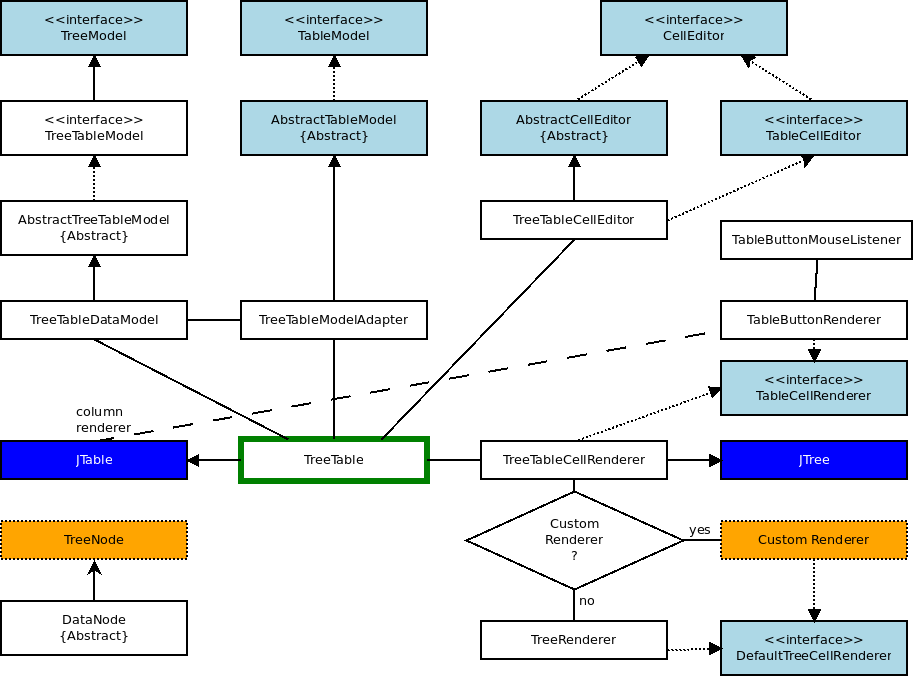
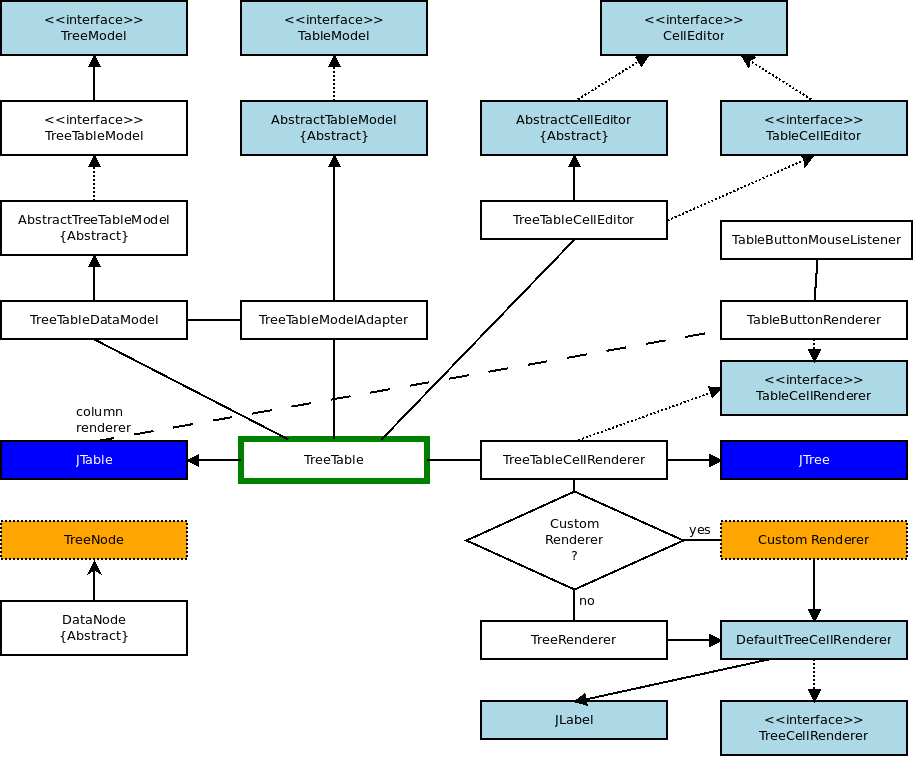
Removed context menu, updated documentation

diff --git a/doc/de/chapters/gui/debugger/3-var.tex b/doc/de/chapters/gui/debugger/3-var.tex
@@ -55,12 +55,15 @@ Diese Form der Variablendarstellung wurde erstmals im Dokument Ausführungsumgeb
 
 \subsection{Darstellungsschema}
 
-Die Darstellung der Variablen in Form einer Baumstruktur hat den Vorteil, dass alle Variablen in einem Feld untergrbracht sind und die Gültigkeitsbereiche der Variablen sofort ersichtlich sind.
-Alle Elemente befinden sich in einem Ordner, der den Namen der Datei trägt. Dadurch wird symbolisiert, dass die Variablen ein Teil des Programmes sind. Dem Programm selbst untergeordnet sind globale Variablen und Funktionen. Lokale Variablen sind Funktionen untergeordnet, Variablen in Strukturen sind der Struktur untergeordnet.
+Die Darstellung der Variablen in Form einer Baumstruktur hat den Vorteil, dass alle Variablen in einem Feld untergebracht sind und die Gültigkeitsbereiche der Variablen sofort ersichtlich sind.
+
+Die TreeTable besitzt drei Spalten: In der ersten befindet sich der Baum mit den Namen der Variablen. in der zweiten Spalte wird der Datentyp der Variable und in der dritten ihr Wert gezeigt.
+
+Alle Elemente befinden sich in einem Ordner, der den Namen der Datei trägt. Dadurch wird symbolisiert, dass die Variablen ein Teil des Programms sind. Dem Programm selbst untergeordnet sind globale Variablen und Funktionen. Lokale Variablen sind Funktionen untergeordnet, Variablen in Strukturen sind der Struktur untergeordnet.
 Zusätzlich werden folgende Elemente in der Tabelle farbig markiert:
 \begin{itemize}
 \item Funktionen sind hellblau hinterlegt. Sie sollen dadurch optisch von Datenstrukturen und Variablen unterscheidbar sein.
-\item Die Variablen, die zuletzt geändert wurden, sind gelb hinterlegt. Grundsätzlich kann pro Schritt des Debuggers nur eine Variable geändert werden. Werden aber einige Schritte übersprungen, zum Beispiel mit dem Schlüsselwort \glqq library\grqq, so werden mehrere Variablen in einem Debuggerschritt geändert.
+\item Die Variablen, die zuletzt geändert wurden, sind gelb hinterlegt. Grundsätzlich kann pro Schritt des Debuggers nur eine Variable geändert werden. Werden aber einige Schritte übersprungen, zum Beispiel mit dem Schlüsselwort \glqq{}library\grqq{}, so werden mehrere Variablen in einem Debuggerschritt geändert.
 % TODO refer to library
 \item Variablen, die noch nicht initialisiert wurden, sind grau hinterlegt.
 % TODO refer to undef variables
@@ -72,9 +75,6 @@ Zusätzlich werden folgende Elemente in der Tabelle farbig markiert:
 \caption{Beispiel für farbige Hervorhebung von Variablen}
 \label{fig:deb-tt-example}
 \end{figure}
-%TODO erklären, wie Farben funktionieren???
-
-Bei Rechtsklick auf eine Variable im Baum wird ein Kontextmenü geöffnet. Mit der Option \glqq{}Gehe zur Deklaration\grqq{} kann der Benutzer zur Deklaration der Variable im Sourcecode springen. Die entsprechende Zeile wird markiert. Für Funktionen gibt es außerdem den Punkt \glqq{}Gehe zum Aufruf\grqq{}, der die Zeile markiert, in der diese Funktion aufgerufen wurde.
 
 %    ---------------------------------------------------------------------
 %        Grundlegende Komponenten
@@ -82,7 +82,7 @@ Bei Rechtsklick auf eine Variable im Baum wird ein Kontextmenü geöffnet. Mit d
 
 \subsection{Grundlegende Komponenten}
 Die Variablen werden in einer Tabelle mit Baumstruktur, deshalb auch ,,TreeTable'' genannt, angezeigt. Die TreeTable ist eine Kombination aus einem JTree und einer JTable.
-Im Folgenden werden diese Komponenten beschrieben und der Aufbau der TreeTable erläutert:
+Im Folgenden werden diese Komponenten beschrieben und der Aufbau der TreeTable erläutert.
 
 \subsubsection*{JTree - Baum}
 
@@ -258,15 +258,88 @@ public Component getTableCellEditorComponent(JTable table, Object value, boolean
 \subsubsection*{TableCellRenderer.java}
 In diesem Interface sind alle Methoden definiert, die zum Rendern von Zellen einer JTable benötigt werden\footnote{https://docs.oracle.com/javase/7/docs/api/javax/swing/table/TableCellRenderer.html}.
 
+%TODO TODO TODO missing: TableButtonMouseListener, (swing)
+\subsubsection*{TableButtonRenderer.java}
+Diese Klasse sorgt dafür, dass die Zellen der Tabelle die richtige Hintergrundfarbe erhalten und dass AWT- und Swing-Elemente in der Tabelle richtig dargestellt werden. Um Elemente der grafischen Benutzeroberfläche in einer Tabelle zu rendern, muss die Methode \textbf{getTableCellRendererComponent(...)} für die jeweilige Zelle das beinhaltete Element zurückgeben.
+\begin{lstlisting}[language=JAVA]
+public Component getTableCellRendererComponent(JTable table, Object value, boolean isSelected, boolean hasFocus, int row, int column) {
+	Component c = (Component)defaultRenderer.getTableCellRendererComponent(table, value, isSelected, hasFocus, row, column);
+	
+	// AWT- oder Swing-Komponente verwenden
+	if(value instanceof Component)
+		return (Component)value;
+	
+	// Weitere Anpassungen
+	else if( ... )
+		...
+	
+	return c;
+}
+\end{lstlisting}
+
+\subsubsection*{TreeTableButtonMouseListener.java}
+Diese Klasse implementiert das Interface \textbf{MouseListener} und ist Event Listener der gesamten TreeTable. Dieser Listener muss allerdings manuell zur TreeTable hinzugefügt werden.
+\begin{lstlisting}[language=JAVA]
+treeTable.addMouseListener(new TableButtonMouseListener(main, treeTable));
+\end{lstlisting}
+
+Der Listener \textbf{TreeTableButtonMouseListener} sorgt dafür dass, falls ein Button in der Tabelle angeklickt wird, der entstandene Event an den Button weitergeleitet wird, sodass der Button seinen eigenen EventListener ausführen kann.
+\begin{lstlisting}[language=JAVA]
+public void mouseClicked(MouseEvent e) {
+	// Leitet den Event an den angeklickten Button weiter
+	forwardEventToButton(e, this.treeTable.getTable().rowAtPoint(e.getPoint()), this.treeTable.getTable().columnAtPoint(e.getPoint()));
+}
+\end{lstlisting}
+
 \subsubsection*{TreeTableCellRenderer.java}
 Diese Klasse erbt von JTree und wird verwendet, um einen Baum in die erste Spalte der Treetable, also die Spalte mit de Baum - zu rendern. Außerdem ist diese Klasse dafür verantwortlich, dass die Zeilen der Tabelle und des Baumes die selbe Höhe haben und dass die Zellen die richtige Farbe erhalten.
 %TODO refer to table line colors
 
+An den JTree selbst kann außerdem noch ein eigens erstellter Renderer übergeben werden, um beispielsweise eigene Symbole für jeden Knoten im Baum anzuzeigen. Dieser Renderer muss das Interface \textbf{DefaultTreeCellRenderer} implementieren. Ist ein solcher Renderer nicht vorhanden, wird die standardmäßig \textbf{TreeRenderer} verwendet.
 
-%TODO TODO TODO continue here
-%TODO TODO TODO missing: TreeRenderer, TableButtonMouseListener, (swing)DefaultTreeCellRenderer
-\subsubsection*{TableButtonRenderer.java}
-Diese Klasse wird als Renderer für die zweite und dritte Spalte der TreeTable verwendet. Sie erlaubt das Verwenden von Swing-Komponenten wie etwa JButtons als Zellendaten und sorgt dafür, dass die Zellen die korrekte Hintergrundfarbe haben.
+\subsubsection*{JLabel.java}
+Ein JLabel\footnote{http://docs.oracle.com/javase/7/docs/api/javax/swing/JLabel.html} ist ein einfaches Swing-Element, das einen Text und/oder ein Bild anzeigen kann. Für den Text in der Zelle einer Tabelle oder dem Knoten eines Baumes werden meistens JLabels verwendet (außer die Zelle soll editierbar sein --- dann wird ein JTextField\footnote{http://docs.oracle.com/javase/7/docs/api/javax/swing/JTextField.html} verwendet). JLabels reagieren nicht auf Events, wie etwa Mausklicks.
+
+\subsubsection*{TreeCellRenderer.java}
+Diese Interface definiert Basismethoden für ein Objekt, das den Knoten eines JTree rendern kann\footnote{http://docs.oracle.com/javase/7/docs/api/javax/swing/tree/TreeCellRenderer.html}.
+
+\subsubsection*{DefaultTreeCellRenderer.java}
+Diese Klasse enthält Implementierungen zum Rendern von Knoten eines JTree\footnote{http://docs.oracle.com/javase/7/docs/api/javax/swing/tree/DefaultTreeCellRenderer.html}.
+
+\subsubsection*{TreeRenderer.java}
+Dieser Renderer wird für den JTree der TreeTable verwendet, wenn kein anderer Renderer vorhanden ist. Die Klasse TreeRenderer entfernt alle Hintergrundfarben des JTree, damit die Farbmarkierungen in den Zeilen der Tabelle durchgängig sichtbar sind. Das muss auch bei allen eigenen JTree-Renderern für die TreeTable berücksichtigt werden. In einen neuen Renderer müssen folgende Methoden implementiert werden:
+\begin{lstlisting}[language=JAVA]
+@Override
+public Color getBackgroundNonSelectionColor() {
+    return null;
+}
+
+@Override
+public Color getBackgroundSelectionColor() {
+    return null;
+}
+
+@Override
+public Color getBackground() {
+    return null;
+}
+\end{lstlisting}
+
+Ohne diese Methoden zeichnet der JTree die Texte (JLabel) seiner Knoten nicht mit transparentem Hintergrund.
+
+\begin{figure}[h!]
+\centering
+	\begin{minipage}{0.45\textwidth}
+		\centering
+		\includegraphics[width=1.0\textwidth]{./media/images/gui/var/tt-norender.png}
+		\caption{TreeTable ohne Renderer für den JTree}\label{fig:deb-tt-render-no}
+	\end{minipage}\hfill
+	\begin{minipage}{0.48\textwidth}
+		\centering
+		\includegraphics[width=1.0\textwidth]{./media/images/gui/var/tt-render.png}
+		\caption{TreeTable mit Renderer für den JTree}\label{fig:deb-tt-render-no}
+	\end{minipage}
+\end{figure}
 
 %    ---------------------------------------------------------------------
 %        Spezielle Implementierung
@@ -283,11 +356,12 @@ TreeTableView hat folgende Methoden:
 \item \textbf{update} Aktualisiert das Datenmodell der TreeTable im Debugmodus und zeigt die Variablen im Speicher des Interpreters an.
 \item \textbf{highlightVariable} Mit dieser Methode wird die Addresse einer zuletzt geänderten Variable an die TreeTable übergeben. Diese Variable wird in der Tabelle markiert. Es ist möglich, diese Funktion mehrmals aufzurufen und so mehrere Variablen zu markieren. Wenn das Datenmodell mit \textbf{update} aktualisiert wird, verfallen alle Addressen.
 \item \textbf{updateFontSize} Bei Aufruf dieser Methode wird die Schriftgröße der Tabelle geändert und die gesamte TreeTable neu gezeichnet. Diese Methode wird aufgerufen, wenn die Einstellungen der Benutzeroberfläche geändert wurden.
+\end{itemize}
 
 \subsubsection*{VarDataNode.java}
-%TODO this text is not complete
+Die Klasse VarDataNode erweitert die abstrakte Klasse DataNode und kann deshalb für die Datenstruktur der TreeTable verwendet werden. Ein VarDataNode bildet einen Knoten im Baum bzw. eine Zeile in der TreeTable.
 
-Die Klasse DataNode hat folgende Felder:
+Folgende Daten werden in einem Knoten gespeichert:
 \begin{lstlisting}[language=JAVA]
 // Informationen, die in der Tabelle angezeigt werden
 private final String name;
@@ -296,12 +370,47 @@ private Object value;
 
 // Zusätzliche Informationen
 private int address;
-private int declaration;
 \end{lstlisting}
-Die TreeTable besitzt drei Spalten: In der ersten befindet sich der Baum mit den Namen der Variablen. in der zweiten Spalte wird der Datentyp der Variable und in der dritten ihr Wert gezeigt. Die Felder für Datentyp und Wert haben den Typ Object, da sich in der Tabelle an der Stelle eines Wertes auch ein JButton befinden kann.
+Die Felder für Datentyp und Wert haben den Typ Object, da sich in der Tabelle an der Stelle eines Wertes auch ein JButton befinden kann.
 %TODO refer to JTableButtonRenderer.java
-Zusätzlich werden die Addresse und die Deklarationszeile der Variable gespeichert. Die Adresse dient der eindeutigen Identifikation der Variable, zum Beispiel beim Traversieren durch den Variablenbaum. Dadurch können lokale Variablen auch bei mehrfachem Aufruf einer Funktion unterschieden werden.
-Bei Rechtsklick auf eine Variable in der TreeTable wird ein Kontextmenü mit der Option ''Jump to declaration'' geöffnet. Im Sourcecode wird dann die Zeile markiert, die im Feld ''declaration'' des betreffenden Datenknoten gespeichert ist.
 
-\end{itemize}
-%TODO weitere Elemente der TreeTable: Popup, Kontextmenü
+Zusätzlich werden die Adresse und die Deklarationszeile der Variable gespeichert. Die Adresse dient der eindeutigen Identifikation der Variable, zum Beispiel beim Traversieren durch den Variablenbaum. Dadurch können lokale Variablen auch bei mehrfachem Aufruf einer Funktion unterschieden werden.
+%TODO add more information about Methods, ...
+
+\subsubsection*{TreeStructImageRenderer.java}
+Dieser Renderer wird anstelle des Standardrenderers \textbf{TreeRenderer} der TreeTable verwendet. Wie im TreeRenderer sind auch hier Methoden implementiert, um die Hintergrundfarben der Knoten des JTree zu entfernen. Außerdem ist eine weitere Methode implementiert, die den Knoten des Baumes je nach Datentyp ein anderes Icon gibt.
+
+Zum Ändern des Icons eines Knoten muss im Renderer folgende Methode implementiert werden:
+\begin{lstlisting}[language=JAVA]
+public JComponent getTreeCellRendererComponent(JTree tree, Object value, boolean sel, boolean exp, boolean leaf, int row, boolean hasFocus) {
+
+	ImageIcon icon = new ImageIcon("images/icon.png");
+
+	setOpenIcon(icon);
+	setClosedIcon(icon);
+	setLeafIcon(icon);
+	
+	super.getTreeCellRendererComponent(tree, value, sel, exp, leaf, row, hasFocus);
+		
+	return this;
+}
+\end{lstlisting}
+
+Für unterschiedliche Arten von Variablen werden unterschiedliche Bilder verwendet:
+\def\arraystretch{1.4}
+\begin{table}[h!]
+\center
+\begin{tabular}{|cl|}
+\hline 
+Bild & Art des Eintrages \\ 
+\hline
+\includegraphics[scale=1.0]{./media/images/gui/var/icons/cmm.png} & Hauptknoten: Die CMM-Datei selbst \\
+\includegraphics[scale=1.0]{./media/images/gui/var/icons/func.png} & Funktionen \\
+\includegraphics[scale=1.0]{./media/images/gui/var/icons/struct.png} & Strukturen \\ 
+\includegraphics[scale=1.0]{./media/images/gui/var/icons/array.png} & Arrays (nur der übergeordnete Knoten, nicht die Indizes) \\ 
+- & Einfache Datentypen haben kein Bild\\
+\hline 
+\end{tabular}
+\caption{Icons für unterschiedliche Strukturen und Einträge in der Variablentabelle}
+\end{table}
+

diff --git a/src/at/jku/ssw/cmm/gui/treetable/TableButtonMouseListener.java b/src/at/jku/ssw/cmm/gui/treetable/TableButtonMouseListener.java
@@ -21,26 +21,18 @@
  
 package at.jku.ssw.cmm.gui.treetable;
 
-import static at.jku.ssw.cmm.gettext.Language._;
-
 import java.awt.event.MouseEvent;
 import java.awt.event.MouseListener;
 
 import javax.swing.JButton;
 import javax.swing.SwingUtilities;
 
-import at.jku.ssw.cmm.gui.GUImain;
-import at.jku.ssw.cmm.gui.treetable.context.InitContextMenu;
-import at.jku.ssw.cmm.gui.treetable.var.VarDataNode;
-
 public class TableButtonMouseListener implements MouseListener {
 	
-	public TableButtonMouseListener(GUImain main, TreeTable<?> t) {
-		this.main = main;
+	public TableButtonMouseListener(TreeTable<?> t) {
 		this.treeTable = t;
 	}
 	
-	private final GUImain main;
 	private final TreeTable<?> treeTable;
 
 	protected void forwardEventToButton(MouseEvent e, int row, int column) {
@@ -93,7 +85,8 @@ public class TableButtonMouseListener implements MouseListener {
 		int row = this.treeTable.getTable().rowAtPoint(e.getPoint());
 		int col = this.treeTable.getTable().columnAtPoint(e.getPoint());
 		
-		// Right mouse clicked
+		// NOTE: Inactive, because it is not necessary
+		/*// Right mouse clicked
 		if (SwingUtilities.isRightMouseButton(e)
 				&& this.treeTable.getTreeModel().getRoot() instanceof VarDataNode) {
 			if (row >= 0 && col >= 0) {
@@ -116,7 +109,7 @@ public class TableButtonMouseListener implements MouseListener {
 				
 				System.out.println("mouse entered reference: " + node.getName() + " on " + node.getAddress());
 			}
-		}
+		}*/
 		
 		forwardEventToButton(e,	row, col);
 	}

diff --git a/src/at/jku/ssw/cmm/gui/treetable/var/TreeTableView.java b/src/at/jku/ssw/cmm/gui/treetable/var/TreeTableView.java
@@ -103,7 +103,7 @@ public class TreeTableView{
 				
 				if( completeUpDate || forceUpdate ){
 					varTreeTable.setTreeModel(InitTreeTableData.readSymbolTable(compiler, main, fileName, columnNames, columnTypes));
-					varTreeTable.addMouseListener(new TableButtonMouseListener(main, varTreeTable));
+					varTreeTable.addMouseListener(new TableButtonMouseListener(varTreeTable));
 						
 					forceUpdate = false;
 				}

diff --git a/src/at/jku/ssw/cmm/gui/treetable/var/TreeStructImageRenderer.java b/src/at/jku/ssw/cmm/gui/treetable/var/TreeStructImageRenderer.java
@@ -51,8 +51,8 @@ public class TreeStructImageRenderer extends DefaultTreeCellRenderer {
 			setLeafIcon(null);
 		}
 
-		super.getTreeCellRendererComponent(tree, value, sel, exp, leaf, row,
-				hasFocus);
+		super.getTreeCellRendererComponent(tree, value, sel, exp, leaf, row, hasFocus);
+		
 		return this;
 	}
 	

diff --git a/src/at/jku/ssw/cmm/gui/treetable/example/PackagesTableMouseListener.java b/src/at/jku/ssw/cmm/gui/treetable/example/PackagesTableMouseListener.java
@@ -16,7 +16,7 @@ public class PackagesTableMouseListener extends TableButtonMouseListener {
 	private final TreeTable<?> treeTable;	
 	
 	public PackagesTableMouseListener(GUIquestSelection main, TreeTable<?> t) {
-		super(main.getGUImain(), t);
+		super(t);
 		
 		this.main = main;
 		this.treeTable = t;
